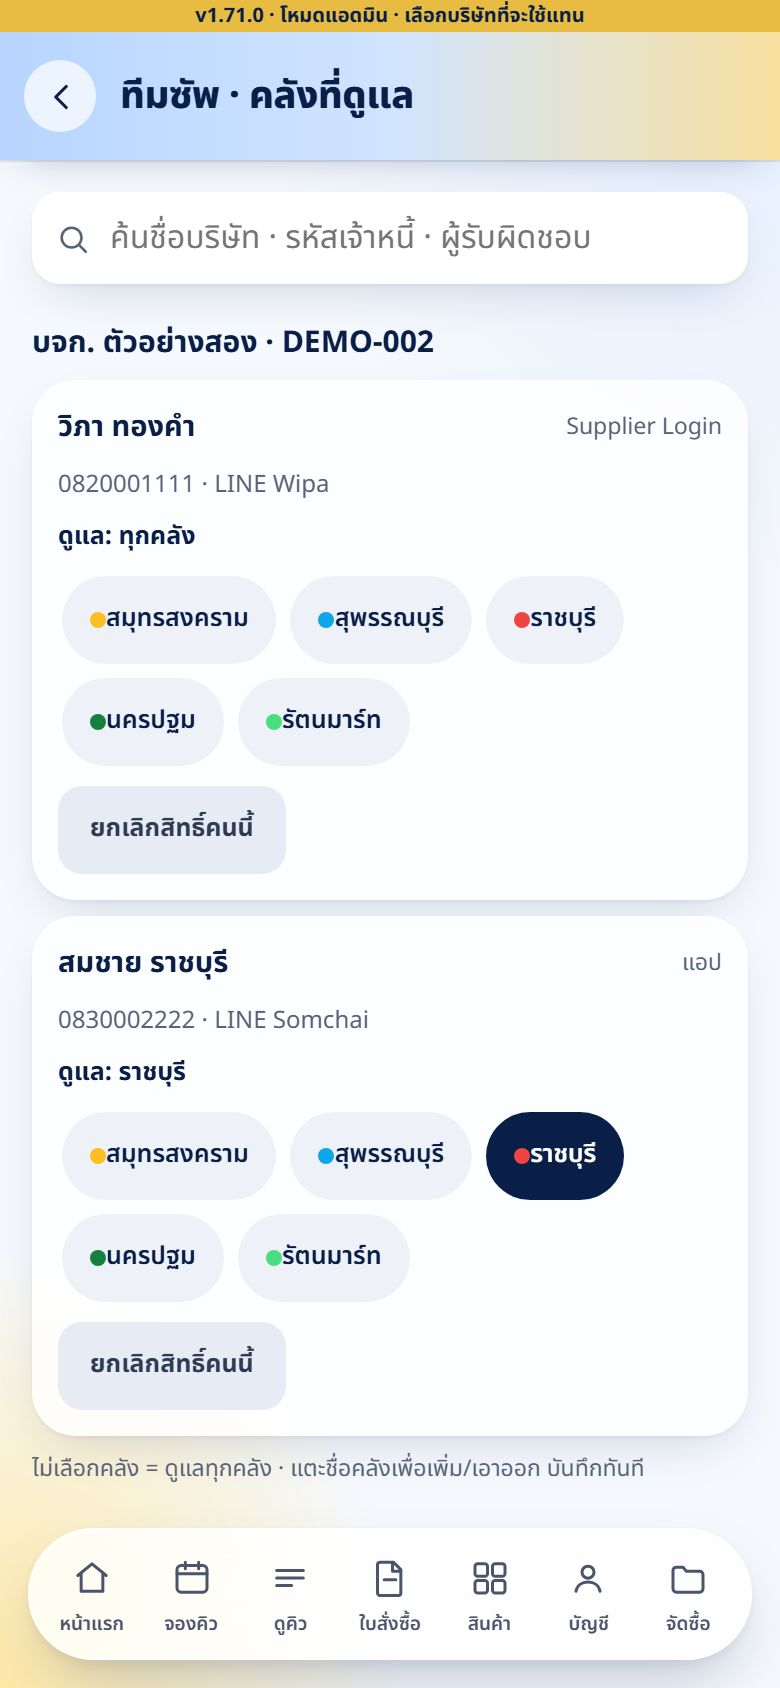
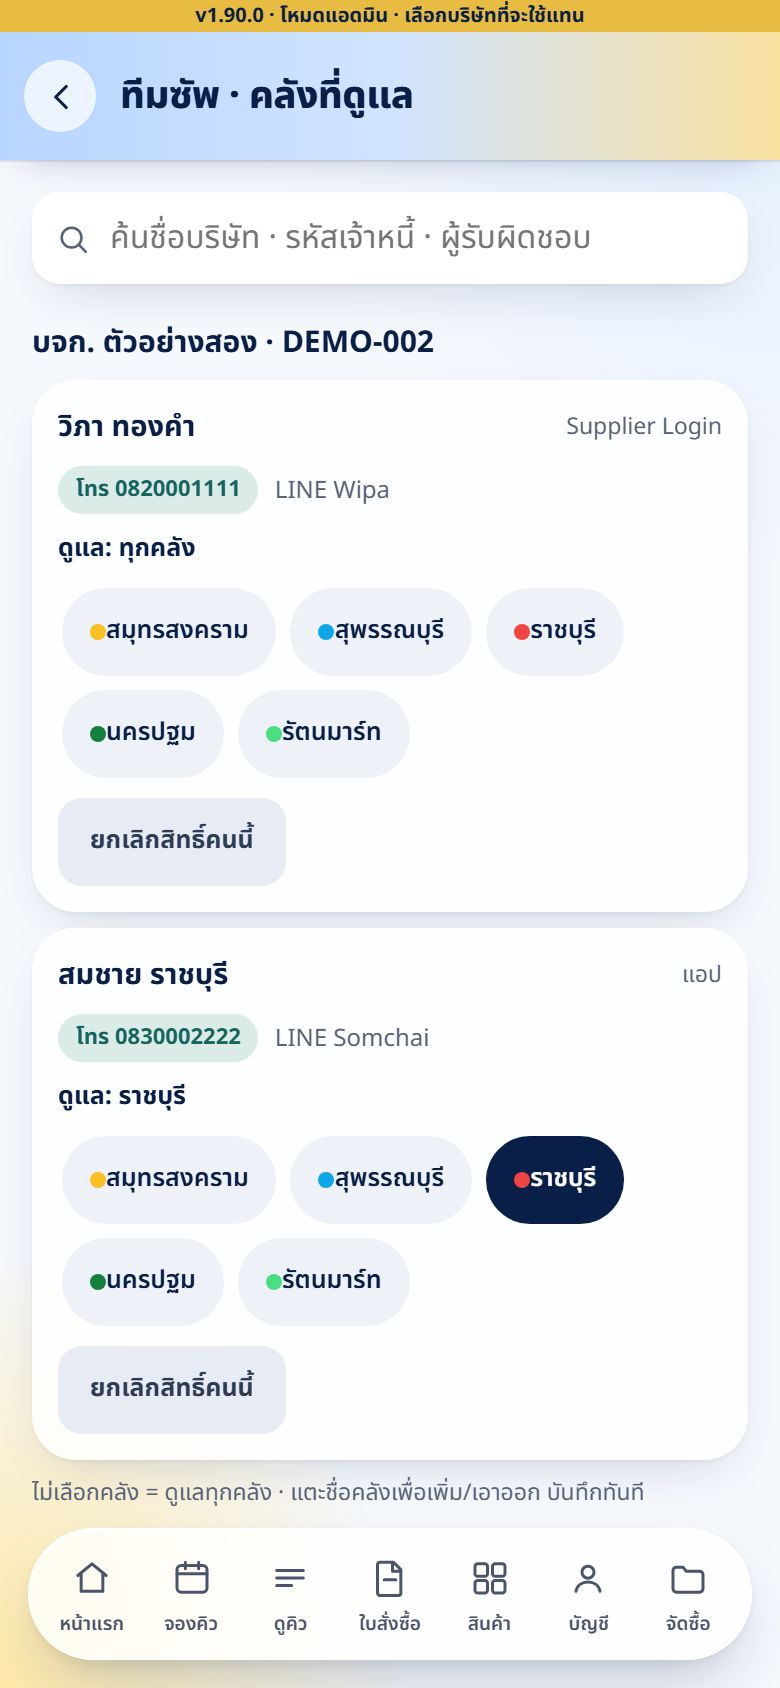
SupplyLink guides: แก้ชื่อ-เบอร์ + ทีมซัพเบอร์ (ซัพ v1.15.0 · จัดซื้อ v1.12.0)

diff --git a/supplylink-guide.html b/supplylink-guide.html
@@ -3,7 +3,7 @@
 <head>
 <meta charset="utf-8">
 <meta name="viewport" content="width=device-width,initial-scale=1,viewport-fit=cover">
-<title>ฝึกใช้ SupplyLink v1.14.0</title>
+<title>ฝึกใช้ SupplyLink v1.15.0</title>
 <link rel="preconnect" href="https://fonts.googleapis.com">
 <link href="https://fonts.googleapis.com/css2?family=Noto+Sans+Thai:wght@400;500;600;700&display=swap" rel="stylesheet">
 <style>
@@ -138,8 +138,8 @@ button{font:inherit;cursor:pointer}
 
 <script>
 (function () {
-  var VER = 'v1.14.0', APP = 'https://liff.line.me/2011693023-xbdsN1K7';
-  var IMG = {"h0":"supplylink-guide/h0.jpg","hinc":"supplylink-guide/hinc.jpg","hdef":"supplylink-guide/hdef.jpg","hpo":"supplylink-guide/hpo.jpg","s2":"supplylink-guide/s2.jpg","s4":"supplylink-guide/s4.jpg","s5":"supplylink-guide/s5.jpg","s6":"supplylink-guide/s6.jpg","s7":"supplylink-guide/s7.jpg","s9":"supplylink-guide/s9.jpg","s10":"supplylink-guide/s10.jpg","s11":"supplylink-guide/s11.jpg","z1":"supplylink-guide/z1.jpg","zm":"supplylink-guide/zm.jpg","zt":"supplylink-guide/zt.jpg","zs":"supplylink-guide/zs.jpg","zi":"supplylink-guide/zi.jpg","q1":"supplylink-guide/q1.jpg","q2":"supplylink-guide/q2.jpg","q3":"supplylink-guide/q3.jpg","q4":"supplylink-guide/q4.jpg","q5":"supplylink-guide/q5.jpg","q6":"supplylink-guide/q6.jpg","q7":"supplylink-guide/q7.jpg","q8":"supplylink-guide/q8.jpg","x1":"supplylink-guide/x1.jpg","x2":"supplylink-guide/x2.jpg","x3":"supplylink-guide/x3.jpg","x4":"supplylink-guide/x4.jpg","x5":"supplylink-guide/x5.jpg","x6":"supplylink-guide/x6.jpg","x7":"supplylink-guide/x7.jpg","a2":"supplylink-guide/a2.jpg","a3":"supplylink-guide/a3.jpg","a5":"supplylink-guide/a5.jpg","d2":"supplylink-guide/d2.jpg","a4":"supplylink-guide/a4.jpg","d3":"supplylink-guide/d3.jpg","d4":"supplylink-guide/d4.jpg","p1":"supplylink-guide/p1.jpg","p1b":"supplylink-guide/p1b.jpg","b2":"supplylink-guide/b2.jpg","b3":"supplylink-guide/b3.jpg","p5":"supplylink-guide/p5.jpg","c2":"supplylink-guide/c2.jpg","c3":"supplylink-guide/c3.jpg","k1":"supplylink-guide/k1.jpg","k2":"supplylink-guide/k2.jpg","k3":"supplylink-guide/k3.jpg","k4":"supplylink-guide/k4.jpg","k5":"supplylink-guide/k5.jpg","k6":"supplylink-guide/k6.jpg","k7":"supplylink-guide/k7.jpg","k9":"supplylink-guide/k9.jpg","k10":"supplylink-guide/k10.jpg","k11":"supplylink-guide/k11.jpg","n1":"supplylink-guide/n1.jpg","n2":"supplylink-guide/n2.jpg","n3":"supplylink-guide/n3.jpg","n4":"supplylink-guide/n4.jpg","n5":"supplylink-guide/n5.jpg","n6":"supplylink-guide/n6.jpg","n7":"supplylink-guide/n7.jpg","n8":"supplylink-guide/n8.jpg","n9":"supplylink-guide/n9.jpg","g1":"supplylink-guide/g1.jpg","g2":"supplylink-guide/g2.jpg","g3":"supplylink-guide/g3.jpg","g4":"supplylink-guide/g4.jpg","m1":"supplylink-guide/m1.jpg","m2":"supplylink-guide/m2.jpg","m3":"supplylink-guide/m3.jpg","m4":"supplylink-guide/m4.jpg","m5":"supplylink-guide/m5.jpg","f1":"supplylink-guide/f1.jpg","f2":"supplylink-guide/f2.jpg","f3":"supplylink-guide/f3.jpg","f4":"supplylink-guide/f4.jpg","dws":"supplylink-guide/dws.jpg","dwh":"supplylink-guide/dwh.jpg","stk":"supplylink-guide/stk.jpg","stk2":"supplylink-guide/stk2.jpg","stkh":"supplylink-guide/stkh.jpg","cbi":"supplylink-guide/cbi.jpg","cb1":"supplylink-guide/cb1.jpg","cb2":"supplylink-guide/cb2.jpg","cb3":"supplylink-guide/cb3.jpg","cbp":"supplylink-guide/cbp.jpg","ot0":"supplylink-guide/ot0.jpg","who1":"supplylink-guide/who1.jpg","mv1":"supplylink-guide/mv1.jpg","mv2":"supplylink-guide/mv2.jpg","aseq":"supplylink-guide/aseq.jpg","inv1":"supplylink-guide/inv1.jpg","ot1":"supplylink-guide/ot1.jpg","ot2":"supplylink-guide/ot2.jpg","ot3":"supplylink-guide/ot3.jpg"};                                       /* แทนด้วยรูปตอน build */
+  var VER = 'v1.15.0', APP = 'https://liff.line.me/2011693023-xbdsN1K7';
+  var IMG = {"h0":"supplylink-guide/h0.jpg","hinc":"supplylink-guide/hinc.jpg","hdef":"supplylink-guide/hdef.jpg","hpo":"supplylink-guide/hpo.jpg","s2":"supplylink-guide/s2.jpg","s4":"supplylink-guide/s4.jpg","s5":"supplylink-guide/s5.jpg","s6":"supplylink-guide/s6.jpg","s7":"supplylink-guide/s7.jpg","s9":"supplylink-guide/s9.jpg","s10":"supplylink-guide/s10.jpg","s11":"supplylink-guide/s11.jpg","z1":"supplylink-guide/z1.jpg","zm":"supplylink-guide/zm.jpg","zt":"supplylink-guide/zt.jpg","zs":"supplylink-guide/zs.jpg","zi":"supplylink-guide/zi.jpg","q1":"supplylink-guide/q1.jpg","q2":"supplylink-guide/q2.jpg","q3":"supplylink-guide/q3.jpg","q4":"supplylink-guide/q4.jpg","q5":"supplylink-guide/q5.jpg","q6":"supplylink-guide/q6.jpg","q7":"supplylink-guide/q7.jpg","q8":"supplylink-guide/q8.jpg","x1":"supplylink-guide/x1.jpg","x2":"supplylink-guide/x2.jpg","x3":"supplylink-guide/x3.jpg","x4":"supplylink-guide/x4.jpg","x5":"supplylink-guide/x5.jpg","x6":"supplylink-guide/x6.jpg","x7":"supplylink-guide/x7.jpg","a2":"supplylink-guide/a2.jpg","a3":"supplylink-guide/a3.jpg","a5":"supplylink-guide/a5.jpg","d2":"supplylink-guide/d2.jpg","a4":"supplylink-guide/a4.jpg","d3":"supplylink-guide/d3.jpg","d4":"supplylink-guide/d4.jpg","p1":"supplylink-guide/p1.jpg","p1b":"supplylink-guide/p1b.jpg","b2":"supplylink-guide/b2.jpg","b3":"supplylink-guide/b3.jpg","p5":"supplylink-guide/p5.jpg","c2":"supplylink-guide/c2.jpg","c3":"supplylink-guide/c3.jpg","k1":"supplylink-guide/k1.jpg","k2":"supplylink-guide/k2.jpg","k3":"supplylink-guide/k3.jpg","k4":"supplylink-guide/k4.jpg","k5":"supplylink-guide/k5.jpg","k6":"supplylink-guide/k6.jpg","k7":"supplylink-guide/k7.jpg","k9":"supplylink-guide/k9.jpg","k10":"supplylink-guide/k10.jpg","k11":"supplylink-guide/k11.jpg","n1":"supplylink-guide/n1.jpg","n2":"supplylink-guide/n2.jpg","n3":"supplylink-guide/n3.jpg","n4":"supplylink-guide/n4.jpg","n5":"supplylink-guide/n5.jpg","n6":"supplylink-guide/n6.jpg","n7":"supplylink-guide/n7.jpg","n8":"supplylink-guide/n8.jpg","n9":"supplylink-guide/n9.jpg","g1":"supplylink-guide/g1.jpg","g2":"supplylink-guide/g2.jpg","g3":"supplylink-guide/g3.jpg","g4":"supplylink-guide/g4.jpg","m1":"supplylink-guide/m1.jpg","m2":"supplylink-guide/m2.jpg","m3":"supplylink-guide/m3.jpg","m4":"supplylink-guide/m4.jpg","m5":"supplylink-guide/m5.jpg","f1":"supplylink-guide/f1.jpg","f2":"supplylink-guide/f2.jpg","f3":"supplylink-guide/f3.jpg","f4":"supplylink-guide/f4.jpg","dws":"supplylink-guide/dws.jpg","dwh":"supplylink-guide/dwh.jpg","stk":"supplylink-guide/stk.jpg","stk2":"supplylink-guide/stk2.jpg","stkh":"supplylink-guide/stkh.jpg","cbi":"supplylink-guide/cbi.jpg","cb1":"supplylink-guide/cb1.jpg","cb2":"supplylink-guide/cb2.jpg","cb3":"supplylink-guide/cb3.jpg","cbp":"supplylink-guide/cbp.jpg","ot0":"supplylink-guide/ot0.jpg","prof1":"supplylink-guide/prof1.jpg","who1":"supplylink-guide/who1.jpg","mv1":"supplylink-guide/mv1.jpg","mv2":"supplylink-guide/mv2.jpg","aseq":"supplylink-guide/aseq.jpg","inv1":"supplylink-guide/inv1.jpg","ot1":"supplylink-guide/ot1.jpg","ot2":"supplylink-guide/ot2.jpg","ot3":"supplylink-guide/ot3.jpg"};                                       /* แทนด้วยรูปตอน build */
   var HAND = '<svg class="hand" viewBox="0 0 48 48" aria-hidden="true"><path d="M19 6c2 0 3.5 1.6 3.5 3.6V22l1-.1V18c0-2 1.6-3.4 3.4-3.4S30.3 16 30.3 18v4.4l1-.1v-2.6c0-1.9 1.5-3.3 3.3-3.3s3.3 1.5 3.3 3.3v3.6l.8-.1c1.8 0 3.3 1.5 3.3 3.3V34c0 6.6-5.4 12-12 12h-3.4c-3.8 0-7.4-1.8-9.6-4.9L8.5 30.6c-1-1.4-.7-3.4.7-4.4 1.4-1 3.3-.8 4.4.5l2 2.4V9.6C15.6 7.6 17.1 6 19 6z" fill="#fff" stroke="#0A1F47" stroke-width="2.4" stroke-linejoin="round"/></svg>';
   var FLOWCARD = function () {                              /* ส่งแล้วเกิดอะไรขึ้น: ซัพตอบ → จัดซื้อยืนยัน → เปิด PO จริง */
     var box = function (n, h, d, tone) { return '<div style="display:flex;gap:3cqw;align-items:flex-start;background:' + (tone || '#fff') + ';border-radius:4cqw;padding:3.6cqw 4cqw">' +
@@ -159,7 +159,7 @@ button{font:inherit;cursor:pointer}
   };
   /* ตำแหน่ง (x,y,w,h) = พิกัดบนจอมือถือกว้าง 390 จากหน้าแอปจริง */
   var LESSONS = [
-    { k:'open', t:'ซัพใหม่ เปิดบัญชี + เข้าใช้', g:'เปิดบัญชี (ซัพใหม่)', s:'ครั้งแรกที่เปิดแอป', n:10, steps:[
+    { k:'open', t:'ซัพใหม่ เปิดบัญชี + เข้าใช้', g:'เปิดบัญชี (ซัพใหม่)', s:'ครั้งแรกที่เปิดแอป', n:11, steps:[
       { img:'inv1', r:[37, 408, 316, 44], h:'ได้ลิงก์เชิญจากจัดซื้อ?', d:'กดลิงก์ ใส่ชื่อ เบอร์ ติ๊กนโยบาย แล้วกด เข้าใช้ SupplyLink · เข้าได้เลย ไม่ต้องกรอกฟอร์ม ไม่ต้องรออนุมัติ (ไม่มีลิงก์ ทำตามขั้นถัดไป)' },
       { img:'g1', r:[24, 182, 342, 60], h:'บริษัทค้าขายกับรัตนอยู่แล้ว?', d:'เซลใหม่ของบริษัทที่ขายให้รัตนอยู่ เลือกข้อนี้ ไม่ต้องแนบเอกสาร · บริษัทใหม่ที่ยังไม่เคยขาย เลือกข้อล่าง' },
       { img:'g1', r:[37, 337, 316, 66], h:'ชื่อบริษัท', d:'ใส่ชื่อบริษัทที่ขายให้รัตน (บริษัทใหม่ = ตามหนังสือรับรอง)' },
@@ -169,7 +169,8 @@ button{font:inherit;cursor:pointer}
       { img:'g3', r:[37, 601, 316, 44], h:'รับทราบนโยบาย', d:'ติ๊กครั้งเดียว อนุมัติแล้วเข้าแอปได้เลย ไม่ต้องกดซ้ำ' },
       { img:'g3', r:[24, 698, 342, 52], h:'ส่งคำขอเปิดบัญชี', d:'ชื่อ LINE และรหัส LINE แอปเก็บให้เอง ไม่ต้องกรอก' },
       { img:'g4', r:[24, 529, 342, 52], h:'รอจัดซื้ออนุมัติ', d:'อนุมัติแล้วได้ข้อความใน LINE ทันที · กดตรวจสอบอีกครั้ง หรือเปิดแอปใหม่ ก็เข้าได้เลย' },
-      { img:'who1', r:[37, 414, 316, 44], h:'คุณคือใคร (ครั้งเดียว)', d:'เปิดแอปครั้งแรกถามชื่อจริงกับเบอร์ ใช้กับนัด เงื่อนไขการสั่งซื้อ และเอกสาร · มีข้อมูลบริษัทแล้วเติมให้ แก้ได้', fx:'type', fxt:'สมชาย ใจดี' }
+      { img:'who1', r:[37, 414, 316, 44], h:'คุณคือใคร (ครั้งเดียว)', d:'เปิดแอปครั้งแรกถามชื่อจริงกับเบอร์ ใช้กับนัด เงื่อนไขการสั่งซื้อ และเอกสาร · มีข้อมูลบริษัทแล้วเติมให้ แก้ได้', fx:'type', fxt:'สมชาย ใจดี' },
+      { img:'prof1', r:[29, 279, 99, 30], h:'แก้ชื่อ-เบอร์ทีหลัง', d:'บัญชี › แก้ชื่อ-เบอร์ของฉัน · เปลี่ยนเบอร์ เปลี่ยนคนดูแล แก้เองได้เลย' }
     ], end:'ไม่ผ่าน = ได้เหตุผลใน LINE แก้แล้วส่งคำขอใหม่ในแอป · ห้ามส่ง LINE ID ให้จัดซื้อพิมพ์เอง (เข้าไม่ได้)' },
     { k:'draft', t:'ใบร่างสั่งซื้อ ก่อนเปิด PO', g:'ใบร่างสั่งซื้อ', s:'ราคา โปร ขาดทุน', n:12, steps:[
       { html:function () { return LINECARD('ใบร่างสั่งซื้อ รอคุณตรวจ', 'ใบร่าง DR6911-012', [['บริษัท', 'บริษัท ตัวอย่าง จำกัด'], ['ส่งที่', 'คลังสุพรรณบุรี'], ['วันส่งที่ขอ', 'ให้คุณเสนอ'], ['สินค้า', '2 รายการ'], ['ช่วยตรวจ', 'จำนวนที่ส่งได้ · ราคา · ของแถม ก่อนเปิด PO']], ['ยอดตามแผน · ก่อน VAT', '฿49,840.00'], 'เปิดตรวจในแอป'); }, el:'lbtn',

diff --git a/supplylink-buyer-guide.html b/supplylink-buyer-guide.html
@@ -3,7 +3,7 @@
 <head>
 <meta charset="utf-8">
 <meta name="viewport" content="width=device-width,initial-scale=1,viewport-fit=cover">
-<title>คู่มือจัดซื้อ SupplyLink v1.11.0</title>
+<title>คู่มือจัดซื้อ SupplyLink v1.12.0</title>
 <link rel="preconnect" href="https://fonts.googleapis.com">
 <link href="https://fonts.googleapis.com/css2?family=Noto+Sans+Thai:wght@400;500;600;700&display=swap" rel="stylesheet">
 <style>
@@ -192,8 +192,8 @@ button{font:inherit;cursor:pointer}
 
 <script>
 (function () {
-  var VER = 'v1.11.0', APP = 'rattana-supplylink.html';
-  var IMG = {"bb":"supplylink-buyer-guide/bb.jpg","bcl":"supplylink-buyer-guide/bcl.jpg","bclo":"supplylink-buyer-guide/bclo.jpg","bclp":"supplylink-buyer-guide/bclp.jpg","bcls":"supplylink-buyer-guide/bcls.jpg","bd":"supplylink-buyer-guide/bd.jpg","bdc":"supplylink-buyer-guide/bdc.jpg","bdh":"supplylink-buyer-guide/bdh.jpg","bdn":"supplylink-buyer-guide/bdn.jpg","bdq":"supplylink-buyer-guide/bdq.jpg","bdr":"supplylink-buyer-guide/bdr.jpg","bdw":"supplylink-buyer-guide/bdw.jpg","bh":"supplylink-buyer-guide/bh.jpg","binc":"supplylink-buyer-guide/binc.jpg","bmv":"supplylink-buyer-guide/bmv.jpg","boa":"supplylink-buyer-guide/boa.jpg","bob":"supplylink-buyer-guide/bob.jpg","boc":"supplylink-buyer-guide/boc.jpg","bod":"supplylink-buyer-guide/bod.jpg","boe":"supplylink-buyer-guide/boe.jpg","bpd":"supplylink-buyer-guide/bpd.jpg","bpo":"supplylink-buyer-guide/bpo.jpg","bpr":"supplylink-buyer-guide/bpr.jpg","bq":"supplylink-buyer-guide/bq.jpg","brv":"supplylink-buyer-guide/brv.jpg","brvb":"supplylink-buyer-guide/brvb.jpg","brvo":"supplylink-buyer-guide/brvo.jpg","btc":"supplylink-buyer-guide/btc.jpg","bvi1":"supplylink-buyer-guide/bvi1.jpg","bvi2":"supplylink-buyer-guide/bvi2.jpg","bvr":"supplylink-buyer-guide/bvr.jpg","bvt":"supplylink-buyer-guide/bvt.jpg","dwa":"supplylink-buyer-guide/dwa.jpg","swa":"supplylink-buyer-guide/swa.jpg"}, RECTS = {"bb":{"drafts":[16,320,358,74],"review":[16,468,358,74],"incrv":[16,542,358,74],"claims":[16,246,358,74],"prop":[16,616,358,74],"tabbuyer":[319,765,50,64]},"bcl":{"due":[19,215,69,44],"sup":[90,215,69,44],"pay":[161,215,69,44],"calc":[30,474,330,44]},"bclo":{"save":[98,631,250,44]},"bclp":{"paid":[30,504,151,44]},"bcls":{"send":[107,511,99,44]},"bd":{"row":[16,371,358,180],"send":[276,776,92,46]},"bdc":{"diff":[187,90,74,44],"sendpo":[30,396,330,44]},"bdh":{"dw":[16,246,358,74]},"bdn":{"remind":[30,398,149,44]},"bdq":{"seq":[30,406,34,28]},"bdr":{"xls":[268,776,100,46],"row":[16,361,358,316]},"bdw":{"ok":[152,454,208,44],"back":[30,454,114,44]},"bh":{"mine":[18,102,85,44],"pend":[16,174,174,111],"rv":[200,174,174,111],"late":[16,295,174,111],"qt":[200,295,174,111],"nob":[16,425,358,74],"tabhome":[21,765,50,64],"tabqueue":[120,765,50,64],"tabpo":[170,765,50,64],"tabproducts":[220,765,50,64],"tabbuyer":[319,765,50,64]},"binc":{"row":[16,265,358,305],"camp":[30,406,330,46],"ok":[173,514,187,44],"no":[30,514,133,44]},"bmv":{"move":[16,601,358,48]},"boa":{"ob":[16,98,358,74]},"bob":{"row":[16,137,358,91]},"boc":{"docs":[16,267,358,173],"q":[53,502,309,26]},"bod":{"pick":[16,321,358,56],"rev":[16,525,358,44],"new":[16,433,358,58],"ok":[169,682,205,52],"no":[16,682,143,52]},"boe":{"pick":[16,170,358,56],"wh":[16,446,358,99],"ok":[169,682,205,52]},"bpd":{"back":[12,34,36,36]},"bpo":{"card":[16,268,358,107]},"bpr":{"row":[16,378,358,80],"pdf":[297,399,65,38]},"bq":{"row":[16,268,358,114],"meet":[117,204,79,44]},"brv":{"row":[64,276,310,128],"done":[105,92,87,44]},"brvb":{"ok":[169,682,205,52],"no":[16,682,143,52],"note":[30,550,330,68]},"brvo":{"diff":[16,103,358,172]},"btc":{"pick":[16,389,358,56],"chip":[295,398,66,20],"q":[53,262,275,26]},"bvi1":{"make":[16,682,358,52],"wh":[16,575,358,99]},"bvi2":{"line":[172,677,189,44],"copy":[29,677,133,44]},"bvr":{"reg":[16,172,358,74]},"bvt":{"wh":[29,286,332,99],"rev":[29,393,114,44],"q":[53,106,309,26]},"dwa":{"q":[54,92,308,26],"wait":[102,196,112,44],"row":[16,270,358,141]},"swa":{"tab":[119,140,109,44],"row":[16,214,358,118],"q":[54,92,308,26]}};                                       /* แทนด้วยรูปตอน build */
+  var VER = 'v1.12.0', APP = 'rattana-supplylink.html';
+  var IMG = {"bb":"supplylink-buyer-guide/bb.jpg","bcl":"supplylink-buyer-guide/bcl.jpg","bclo":"supplylink-buyer-guide/bclo.jpg","bclp":"supplylink-buyer-guide/bclp.jpg","bcls":"supplylink-buyer-guide/bcls.jpg","bd":"supplylink-buyer-guide/bd.jpg","bdc":"supplylink-buyer-guide/bdc.jpg","bdh":"supplylink-buyer-guide/bdh.jpg","bdn":"supplylink-buyer-guide/bdn.jpg","bdq":"supplylink-buyer-guide/bdq.jpg","bdr":"supplylink-buyer-guide/bdr.jpg","bdw":"supplylink-buyer-guide/bdw.jpg","bh":"supplylink-buyer-guide/bh.jpg","binc":"supplylink-buyer-guide/binc.jpg","bmv":"supplylink-buyer-guide/bmv.jpg","boa":"supplylink-buyer-guide/boa.jpg","bob":"supplylink-buyer-guide/bob.jpg","boc":"supplylink-buyer-guide/boc.jpg","bod":"supplylink-buyer-guide/bod.jpg","boe":"supplylink-buyer-guide/boe.jpg","bpd":"supplylink-buyer-guide/bpd.jpg","bpo":"supplylink-buyer-guide/bpo.jpg","bpr":"supplylink-buyer-guide/bpr.jpg","bq":"supplylink-buyer-guide/bq.jpg","brv":"supplylink-buyer-guide/brv.jpg","brvb":"supplylink-buyer-guide/brvb.jpg","brvo":"supplylink-buyer-guide/brvo.jpg","btc":"supplylink-buyer-guide/btc.jpg","bvi1":"supplylink-buyer-guide/bvi1.jpg","bvi2":"supplylink-buyer-guide/bvi2.jpg","bvr":"supplylink-buyer-guide/bvr.jpg","bvt":"supplylink-buyer-guide/bvt.jpg","dwa":"supplylink-buyer-guide/dwa.jpg","swa":"supplylink-buyer-guide/swa.jpg"}, RECTS = {"bb":{"drafts":[16,320,358,74],"review":[16,468,358,74],"incrv":[16,542,358,74],"claims":[16,246,358,74],"prop":[16,616,358,74],"tabbuyer":[319,765,50,64]},"bcl":{"due":[19,215,69,44],"sup":[90,215,69,44],"pay":[161,215,69,44],"calc":[30,474,330,44]},"bclo":{"save":[98,631,250,44]},"bclp":{"paid":[30,504,151,44]},"bcls":{"send":[107,511,99,44]},"bd":{"row":[16,371,358,180],"send":[276,776,92,46]},"bdc":{"diff":[187,90,74,44],"sendpo":[30,396,330,44]},"bdh":{"dw":[16,246,358,74]},"bdn":{"remind":[30,398,149,44]},"bdq":{"seq":[30,406,34,28]},"bdr":{"xls":[268,776,100,46],"row":[16,361,358,316]},"bdw":{"ok":[152,454,208,44],"back":[30,454,114,44]},"bh":{"mine":[18,102,85,44],"pend":[16,174,174,111],"rv":[200,174,174,111],"late":[16,295,174,111],"qt":[200,295,174,111],"nob":[16,425,358,74],"tabhome":[21,765,50,64],"tabqueue":[120,765,50,64],"tabpo":[170,765,50,64],"tabproducts":[220,765,50,64],"tabbuyer":[319,765,50,64]},"binc":{"row":[16,265,358,305],"camp":[30,406,330,46],"ok":[173,514,187,44],"no":[30,514,133,44]},"bmv":{"move":[16,601,358,48]},"boa":{"ob":[16,98,358,74]},"bob":{"row":[16,137,358,91]},"boc":{"docs":[16,267,358,173],"q":[53,502,309,26]},"bod":{"pick":[16,321,358,56],"rev":[16,525,358,44],"new":[16,433,358,58],"ok":[169,682,205,52],"no":[16,682,143,52]},"boe":{"pick":[16,170,358,56],"wh":[16,446,358,99],"ok":[169,682,205,52]},"bpd":{"back":[12,34,36,36]},"bpo":{"card":[16,268,358,107]},"bpr":{"row":[16,378,358,80],"pdf":[297,399,65,38]},"bq":{"row":[16,268,358,114],"meet":[117,204,79,44]},"brv":{"row":[64,276,310,128],"done":[105,92,87,44]},"brvb":{"ok":[169,682,205,52],"no":[16,682,143,52],"note":[30,550,330,68]},"brvo":{"diff":[16,103,358,172]},"btc":{"pick":[16,389,358,56],"chip":[295,398,66,20],"q":[53,262,275,26]},"bvi1":{"make":[16,682,358,52],"wh":[16,575,358,99]},"bvi2":{"line":[172,677,189,44],"copy":[29,677,133,44]},"bvr":{"reg":[16,172,358,74]},"bvt":{"wh":[29,292,332,99],"rev":[29,399,114,44],"q":[53,106,309,26]},"dwa":{"q":[54,92,308,26],"wait":[102,196,112,44],"row":[16,270,358,141]},"swa":{"tab":[119,140,109,44],"row":[16,214,358,118],"q":[54,92,308,26]}};                                       /* แทนด้วยรูปตอน build */
   var HAND = '<svg class="hand" viewBox="0 0 48 48" aria-hidden="true"><path d="M19 6c2 0 3.5 1.6 3.5 3.6V22l1-.1V18c0-2 1.6-3.4 3.4-3.4S30.3 16 30.3 18v4.4l1-.1v-2.6c0-1.9 1.5-3.3 3.3-3.3s3.3 1.5 3.3 3.3v3.6l.8-.1c1.8 0 3.3 1.5 3.3 3.3V34c0 6.6-5.4 12-12 12h-3.4c-3.8 0-7.4-1.8-9.6-4.9L8.5 30.6c-1-1.4-.7-3.4.7-4.4 1.4-1 3.3-.8 4.4.5l2 2.4V9.6C15.6 7.6 17.1 6 19 6z" fill="#fff" stroke="#0A1F47" stroke-width="2.4" stroke-linejoin="round"/></svg>';
   var FLOWCARD = function () {                              /* ส่งแล้วเกิดอะไรขึ้น: ซัพตอบ → จัดซื้อยืนยัน → เปิด PO จริง */
     var box = function (n, h, d, tone) { return '<div style="display:flex;gap:3cqw;align-items:flex-start;background:' + (tone || '#fff') + ';border-radius:4cqw;padding:3.6cqw 4cqw">' +
@@ -318,7 +318,7 @@ button{font:inherit;cursor:pointer}
       { img:'bod', r:'@bod.rev', h:'เปลี่ยนเซล: ยกเลิกสิทธิ์คนเดิม', d:'ติ๊กคนเก่าที่ไม่ใช่เซลแล้ว เข้าแอปไม่ได้อีก ไม่ได้การ์ด LINE อีก · ประวัติเก็บในแท็บ ผู้ติดต่อซัพ' },
       { img:'boe', r:'@boe.wh', h:'คลังที่คนนี้ดูแล', d:'เซลคนละจังหวัด เลือกคลังของคนนี้ · ไม่เลือก = ทุกคลัง · เห็นงานและได้การ์ด LINE เฉพาะคลังที่เลือก' },
       { img:'boe', r:'@boe.ok', h:'อนุมัติ · เข้าใช้ได้ทันที', d:'ซัพได้การ์ด LINE เปิดแอปได้เลย · ไม่ผ่านกดไม่อนุมัติ ต้องใส่เหตุผลถึงซัพ' },
-      { img:'bvt', r:'@bvt.wh', h:'จัดซื้อ › ทีมซัพ · คลังที่ดูแล', d:'แก้คลังของเซลคนไหนก็ได้ทุกเมื่อ รวมคนที่ผูกไว้เดิม · แตะชื่อคลังแล้วบันทึกทันที' },
+      { img:'bvt', r:'@bvt.wh', h:'จัดซื้อ › ทีมซัพ · คลังที่ดูแล', d:'เห็นชื่อจริง + เบอร์ที่เซลกรอก กดโทรได้ · แก้คลังของเซลคนไหนก็ได้ทุกเมื่อ รวมคนที่ผูกไว้เดิม · แตะชื่อคลังแล้วบันทึกทันที' },
       { img:'bvt', r:'@bvt.rev', h:'ยกเลิกสิทธิ์', d:'เซลลาออก กดยกเลิกสิทธิ์ได้เลย ไม่ต้องรอคนใหม่ส่งคำขอ' },
       { img:'bvi1', r:'@bvi1.make', h:'เชิญเซลใหม่: สร้างลิงก์', d:'ทีมซัพ › เลือกบริษัท › เลือกคลังที่ให้ดูแล (ไม่เลือก = ทุกคลัง) › สร้างลิงก์เชิญ · 1 ลิงก์ใช้ได้ 1 คน ภายใน 7 วัน' },
       { img:'bvi2', r:'@bvi2.line', h:'ส่งลิงก์ให้เซล', d:'ส่งทาง LINE หรือคัดลอก · เซลกดลิงก์ ใส่ชื่อ เบอร์ แล้วเข้าแอปได้เลย ไม่ต้องรออนุมัติ' }
